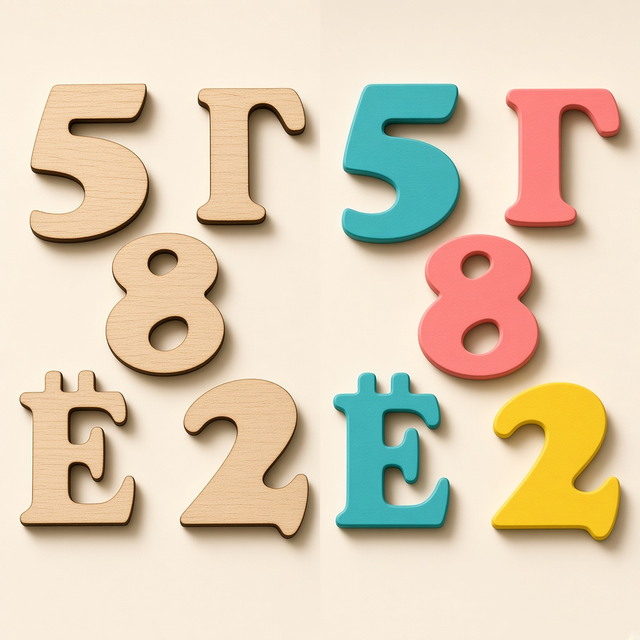
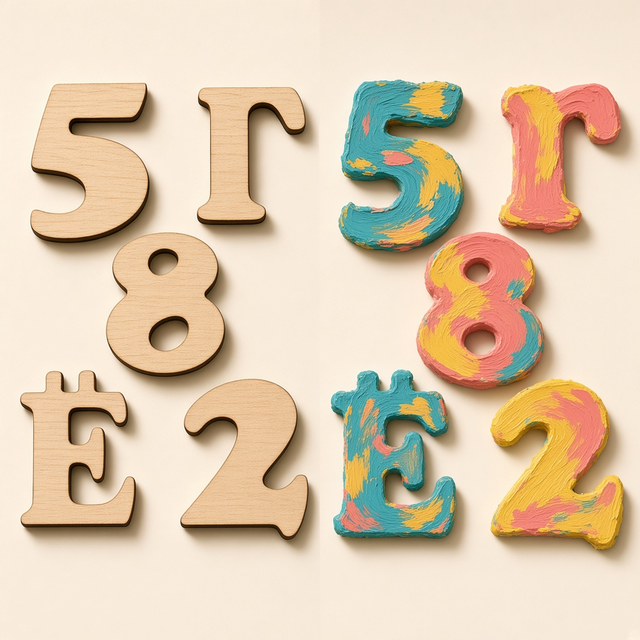
Make painted blanks look like messy kids brushwork, not pro finish.

diff --git a/заготовки.html b/заготовки.html
@@ -170,9 +170,9 @@
 
     <header class="page-head">
       <h1>Заготовки для творчества</h1>
-      <p>Лазерные заготовки из фанеры: именные подвесы, топперы, буквы и цифры, силуэты, значки, заготовки под часы и наборы для декора. На фото — необработанная заготовка и пример раскрашенного вида.</p>
+      <p>Лазерные заготовки из фанеры для детского творчества: подвесы, топперы, буквы, силуэты, значки и наборы. На фото — сырая заготовка и пример, как может раскрасить ребёнок кисточкой.</p>
     </header>
-    <p class="note">Размеры, цены и сроки ниже — ориентиры для согласования. В производстве повторим с вашим текстом, размером и покраской.</p>
+    <p class="note">Размеры, цены и сроки — ориентиры. Покраска на фото нарочно «детская»: неровные мазки, как в садике или школе.</p>
 
     <section class="grid" aria-label="Варианты заготовок">
       <article class="card">
@@ -181,7 +181,7 @@
         </div>
         <div class="card__body">
           <h2 class="card__title">Цветы и животные</h2>
-          <p class="card__desc">Набор форм под роспись: слева заготовка, справа пример покраски.</p>
+          <p class="card__desc">Слева заготовка, справа — как может раскрасить ребёнок.</p>
           <ul class="specs">
             <li><span>Материал</span><strong>Фанера</strong></li>
             <li><span>Размер</span><strong>от 3–15 см</strong></li>

diff --git a/index.html b/index.html
@@ -1121,7 +1121,7 @@
               </div>
               <div class="card__body">
                 <h3 class="card__title">Заготовки для творчества</h3>
-                <p class="card__desc">Заготовка и раскрашенный вид: топперы, буквы, подвесы</p>
+                <p class="card__desc">Заготовка и детская роспись: топперы, буквы, подвесы</p>
                 <p class="card__price">Варианты и размеры внутри</p>
                 <span class="btn btn--ghost btn--small btn--block" aria-hidden="true">Смотреть варианты</span>
               </div>
